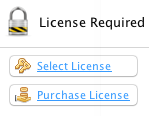
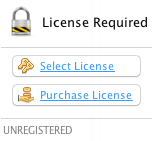
Update license popup screenshot

Changed region(s): [[0.0, 0.3879, 1.0, 0.9569], [0.2685, 0.1034, 0.9933, 0.2586], [0.0537, 0.0259, 0.2148, 0.3103]]

diff --git a/website/purchase.html b/website/purchase.html
@@ -36,7 +36,7 @@
 
 			<div class="content">
 				<div class="screenshot" style="background-color: white; padding: 0px 0px 0px 0px">
-					<img alt="screenshot" src="screenshots/license.png" width="149" height="116">
+					<img alt="screenshot" src="screenshots/license.png" width="152" height="141">
 				</div>
 				<div class="section about">
 					<h2>Buy</h2>
